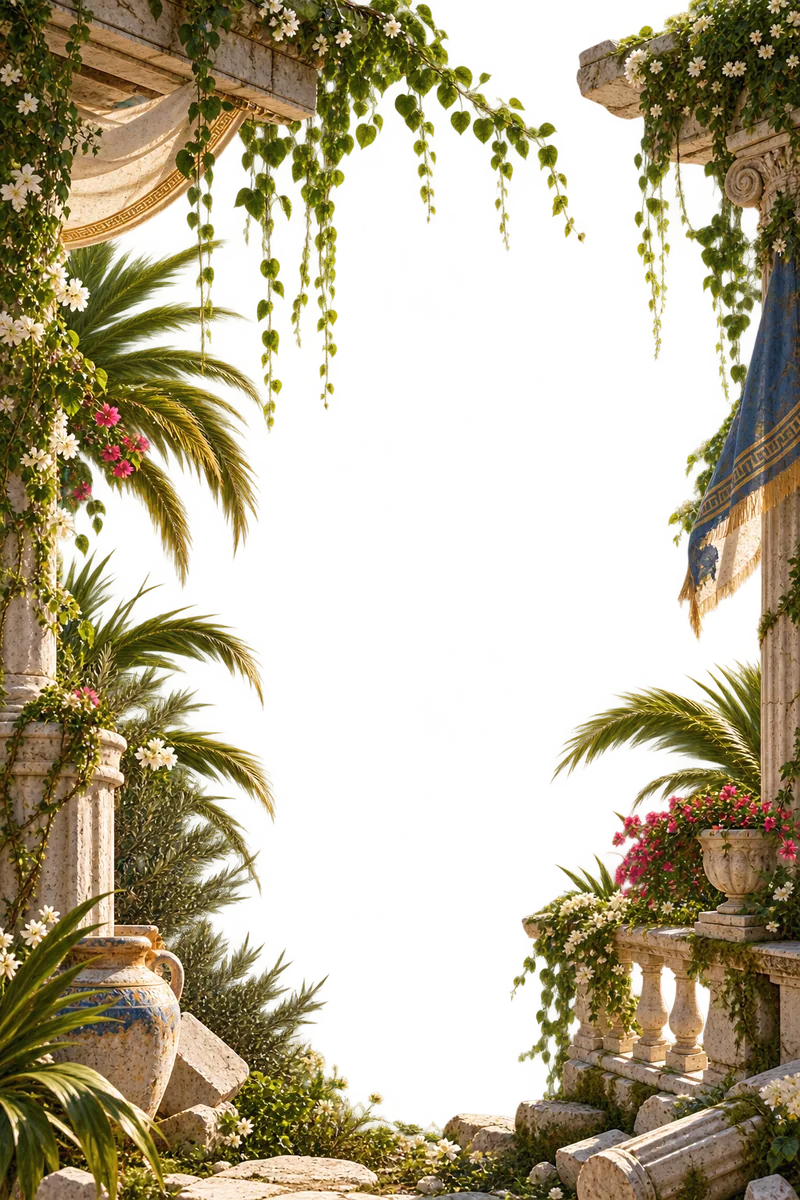
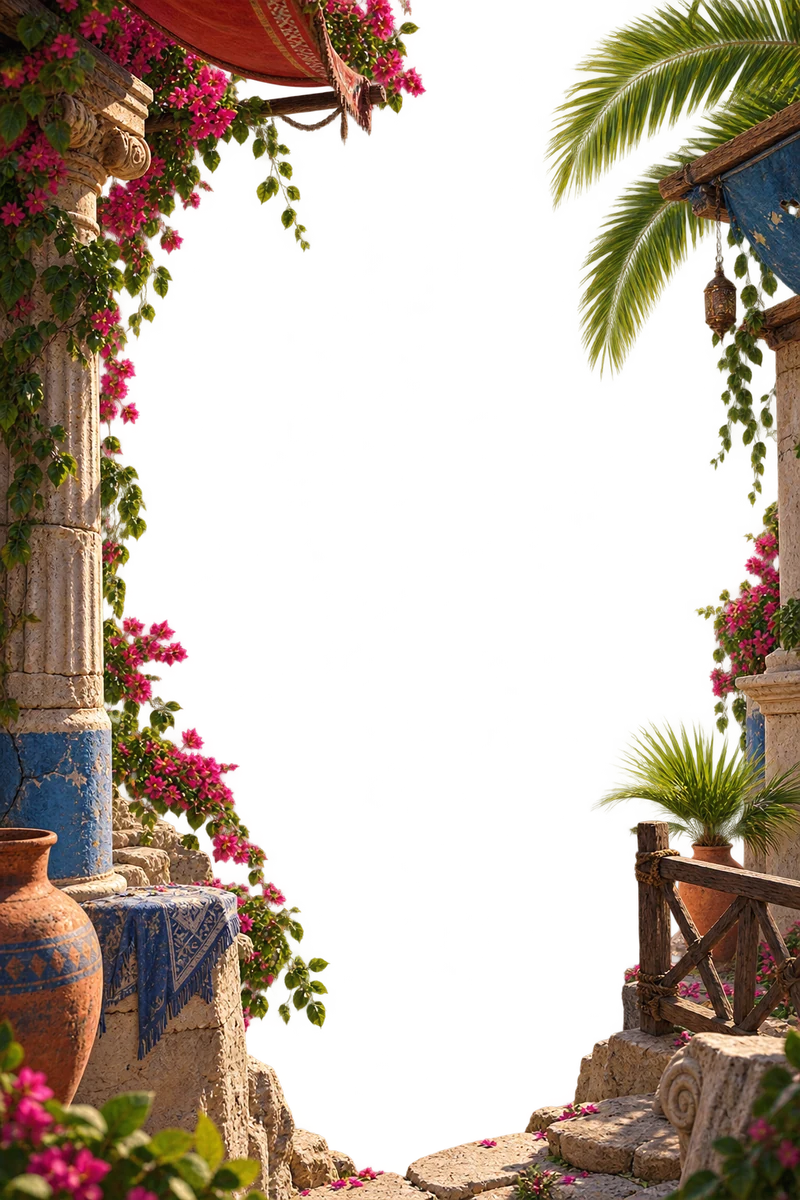
Integrate Corridor 02 production plates

diff --git a/client/src/game/runtime/GoldlineGame.ts b/client/src/game/runtime/GoldlineGame.ts
@@ -186,7 +186,7 @@ export class GoldlineGame {
   private effectsSprite: Sprite | null = null;
   private effectsTargetAlpha = 0.4;
   private farSprite: Sprite | null = null;
-  private foregroundOccluders: Sprite[] = [];
+  private foregroundSprite: Sprite | null = null;
   private poseTextures = new Map<string, Texture>();
   private currentPoseKey = "idle";
   private lastAvatarStateForImpulse: AvatarState = "idle";
@@ -362,17 +362,15 @@ export class GoldlineGame {
         this.particles
       );
 
-      // L3 foreground occlusion sprites, placed at the two authored zones
-      // from occlusion.json once anchors load. Created lazily below.
+      // L3 foreground occlusion plate. It stays registered to L1 at full
+      // scene scale so its authored alpha silhouettes provide the actual
+      // columns/foliage/railings the player passes behind. occlusion.json
+      // separately controls avatar/fortress traversal z-order at those places.
       const foregroundTexture = optionalTextures.get("foreground");
       if (foregroundTexture) {
-        for (let i = 0; i < 2; i += 1) {
-          const occluder = new Sprite(foregroundTexture);
-          occluder.anchor.set(0.5, 0.5);
-          occluder.visible = false;
-          this.foregroundOccluders.push(occluder);
-          this.layerForeground.addChild(occluder);
-        }
+        this.foregroundSprite = new Sprite(foregroundTexture);
+        this.foregroundSprite.alpha = 0.94;
+        this.layerForeground.addChild(this.foregroundSprite);
       }
 
       // L4 effects: the supplied god-ray/mist plate replaces the vector ray
@@ -613,6 +611,9 @@ export class GoldlineGame {
     const height = this.app.screen.height;
     this.fitCover(background, width, height);
     if (this.farSprite) this.fitCover(this.farSprite, width, height);
+    if (this.foregroundSprite) {
+      this.fitCover(this.foregroundSprite, width, height);
+    }
     if (this.effectsSprite) {
       this.fitCover(this.effectsSprite, width, height);
       const alphaEase = Math.min(1, deltaSeconds * 3);
@@ -893,26 +894,9 @@ export class GoldlineGame {
       );
     }
 
-    // Real L3 foreground occlusion sprites: positioned over each authored
-    // zone so the avatar visually passes behind actual foliage/stonework,
-    // not just an invisible z-order swap.
-    this.occlusionZones.forEach((zone, index) => {
-      const sprite = this.foregroundOccluders[index];
-      if (!sprite) return;
-      const zoneLateralMid =
-        (zone.bounds.lateralMin + zone.bounds.lateralMax) / 2;
-      const zoneProgressMid =
-        (zone.bounds.progressMin + zone.bounds.progressMax) / 2;
-      const near = Math.abs(this.progress - zoneProgressMid) < 0.09;
-      sprite.visible = near;
-      if (!near) return;
-      sprite.x = width * (0.5 + zoneLateralMid * 0.22);
-      sprite.y = height * (0.88 - zoneProgressMid * 0.61) - 40;
-      sprite.height = height * 0.34;
-      sprite.width =
-        sprite.height * (sprite.texture.width / sprite.texture.height);
-      sprite.alpha = 0.94;
-    });
+    // The registered full-scene L3 plate supplies pixel-accurate occlusion.
+    // Keeping that plate stable avoids duplicated/shrunken edge art while the
+    // authored zones above continue to govern avatar/fortress z-order.
   }
 
   private drawContactShadow(

diff --git a/client/src/game/GoldlineGameHome.tsx b/client/src/game/GoldlineGameHome.tsx
@@ -561,6 +561,9 @@ export default function GoldlineGameHome(props: GoldlineGameHomeProps) {
       | "production"
       | "engineering_placeholder",
   });
+  const [qualityTier, setQualityTier] = useState<"premium" | "reduced">(
+    "premium"
+  );
 
   useEffect(() => {
     const audio = getAudioManager();
@@ -781,6 +784,7 @@ export default function GoldlineGameHome(props: GoldlineGameHomeProps) {
         }
       },
       onQualityChange: (tier, avgFrameMs) => {
+        setQualityTier(tier);
         emit?.({
           eventName: "visual_quality_adjusted",
           sessionId: sessionIdRef.current,
@@ -1483,6 +1487,8 @@ export default function GoldlineGameHome(props: GoldlineGameHomeProps) {
         data-corridor-id={activeCorridorIdRef.current}
         data-next-corridor-id={nextCorridorId ?? "NONE"}
         data-corridor-transition-phase={corridorTransitionPhase}
+        data-player-progress={progress.toFixed(3)}
+        data-visual-quality-tier={qualityTier}
       >
         <div ref={hostRef} className="goldline-canvas-host" />
         {!runtimeReady ? (

diff --git a/client/public/assets/goldline/corridor_02/README.md b/client/public/assets/goldline/corridor_02/README.md
@@ -33,10 +33,12 @@ three mission anchor slots. They contain no mission, contact, account, or
 outcome truth. Runtime mission projection may bind a real mission to one slot;
 the manifest itself cannot create one.
 
-`gold_route.json` was re-traced from the final `mid.webp` on 2026-08-13. Its
-lower points follow the visual centre of the broad perspective brass strip;
-upper points converge through the distant inlay toward the authored exit. A
-saved inspection overlay was used to verify the route against the plate.
+`gold_route.json` was re-traced from the final `mid.webp` on 2026-08-13. Its 14
+points follow the visual centre between the paired brass rails from the entry
+medallion through the market, stair, cliff, and ruined-arch approach. Source
+pixels were converted through the Pixel portrait fit-cover crop into runtime
+lateral coordinates, and a saved inspection overlay was used to verify the
+route against the plate.
 
 ## What remains missing or intentionally absent
 
@@ -82,6 +84,15 @@ authoritative presentation boundary. The extra airborne Trailblazer pose was
 also left unused rather than mislabeled as a runtime state. The population
 lineup contains touching neighboring figures; its six cells use clean vertical
 seams without invented/inpainted anatomy and require edge-quality review.
+
+Four replacement Corridor 02 production-source PNGs supplied later on
+2026-08-13 supersede only the environment candidates above: a distant coastal
+vista supplies L0, one continuous market-to-ruins world supplies L1, a
+real-alpha coastal frame supplies L3, and a real-alpha sunlight/mist plate
+supplies L4. The new effects source is entirely non-semantic, so no fractured
+Line material is present. The Trailblazer and population exports were preserved
+unchanged. Corridor 02 remains authoring-only pending human review of the new
+runtime journey.
 
 ## Promoting corridor_02 to playable
 
